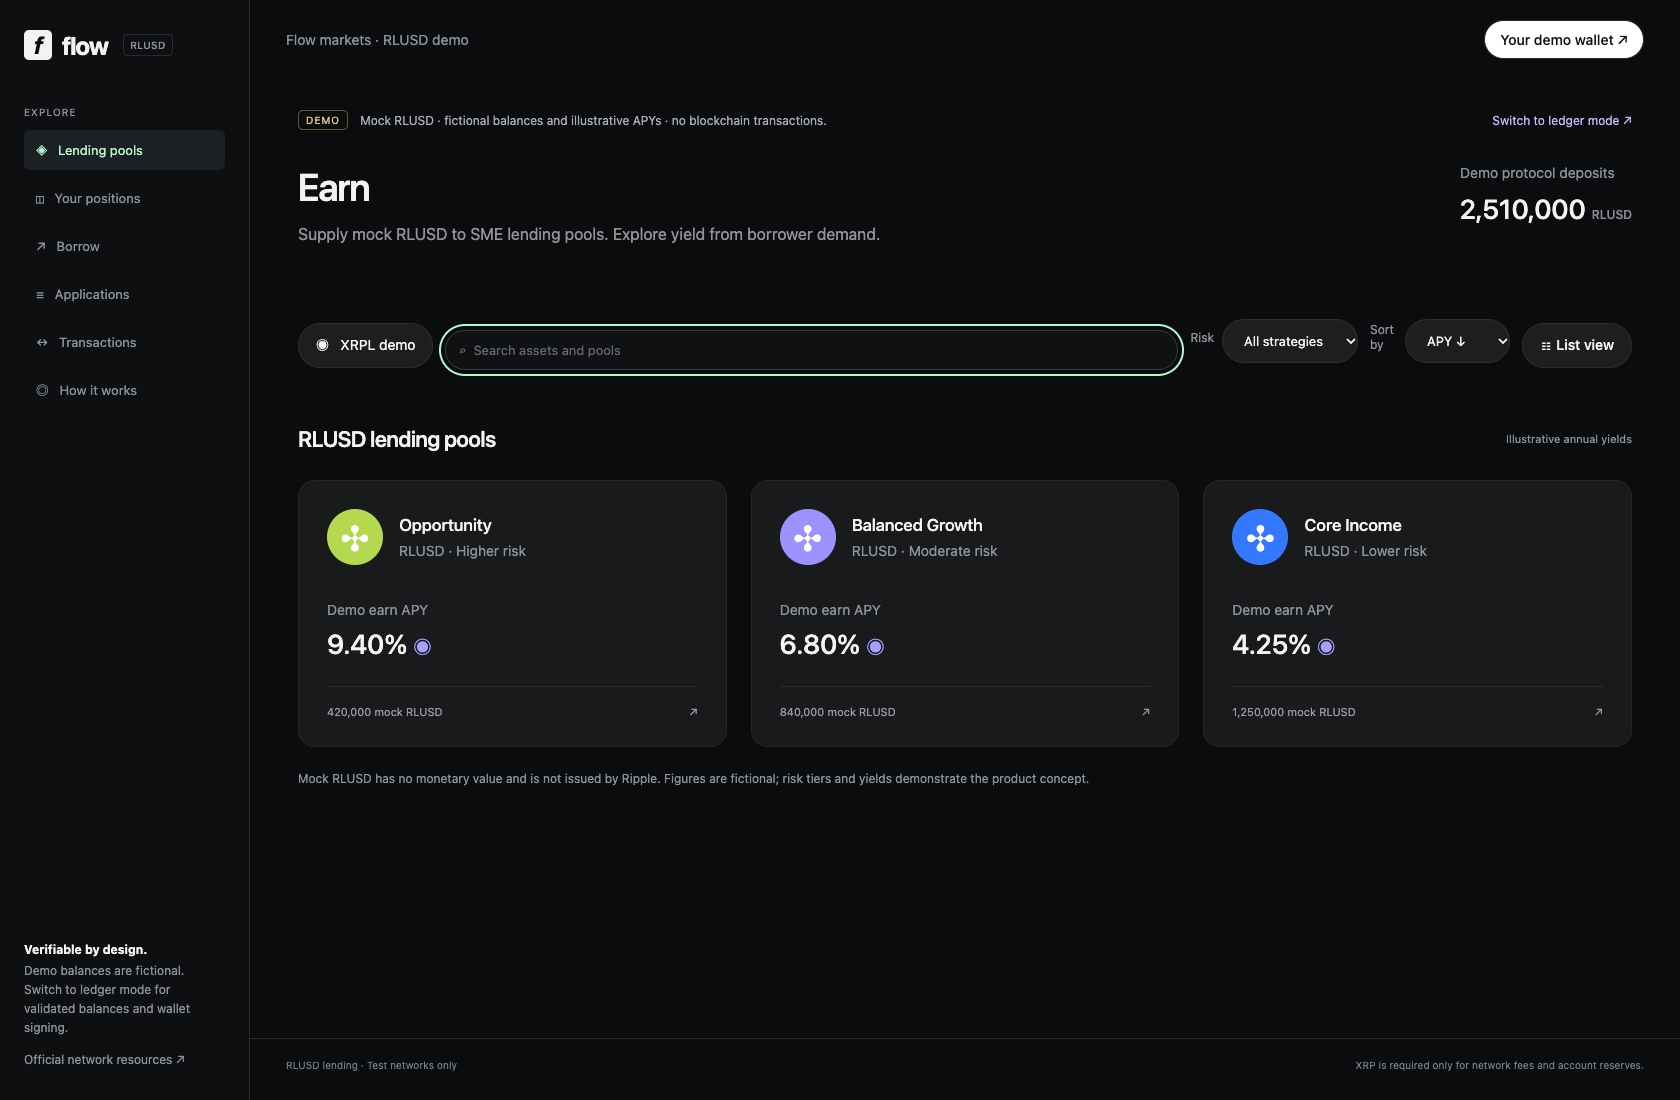
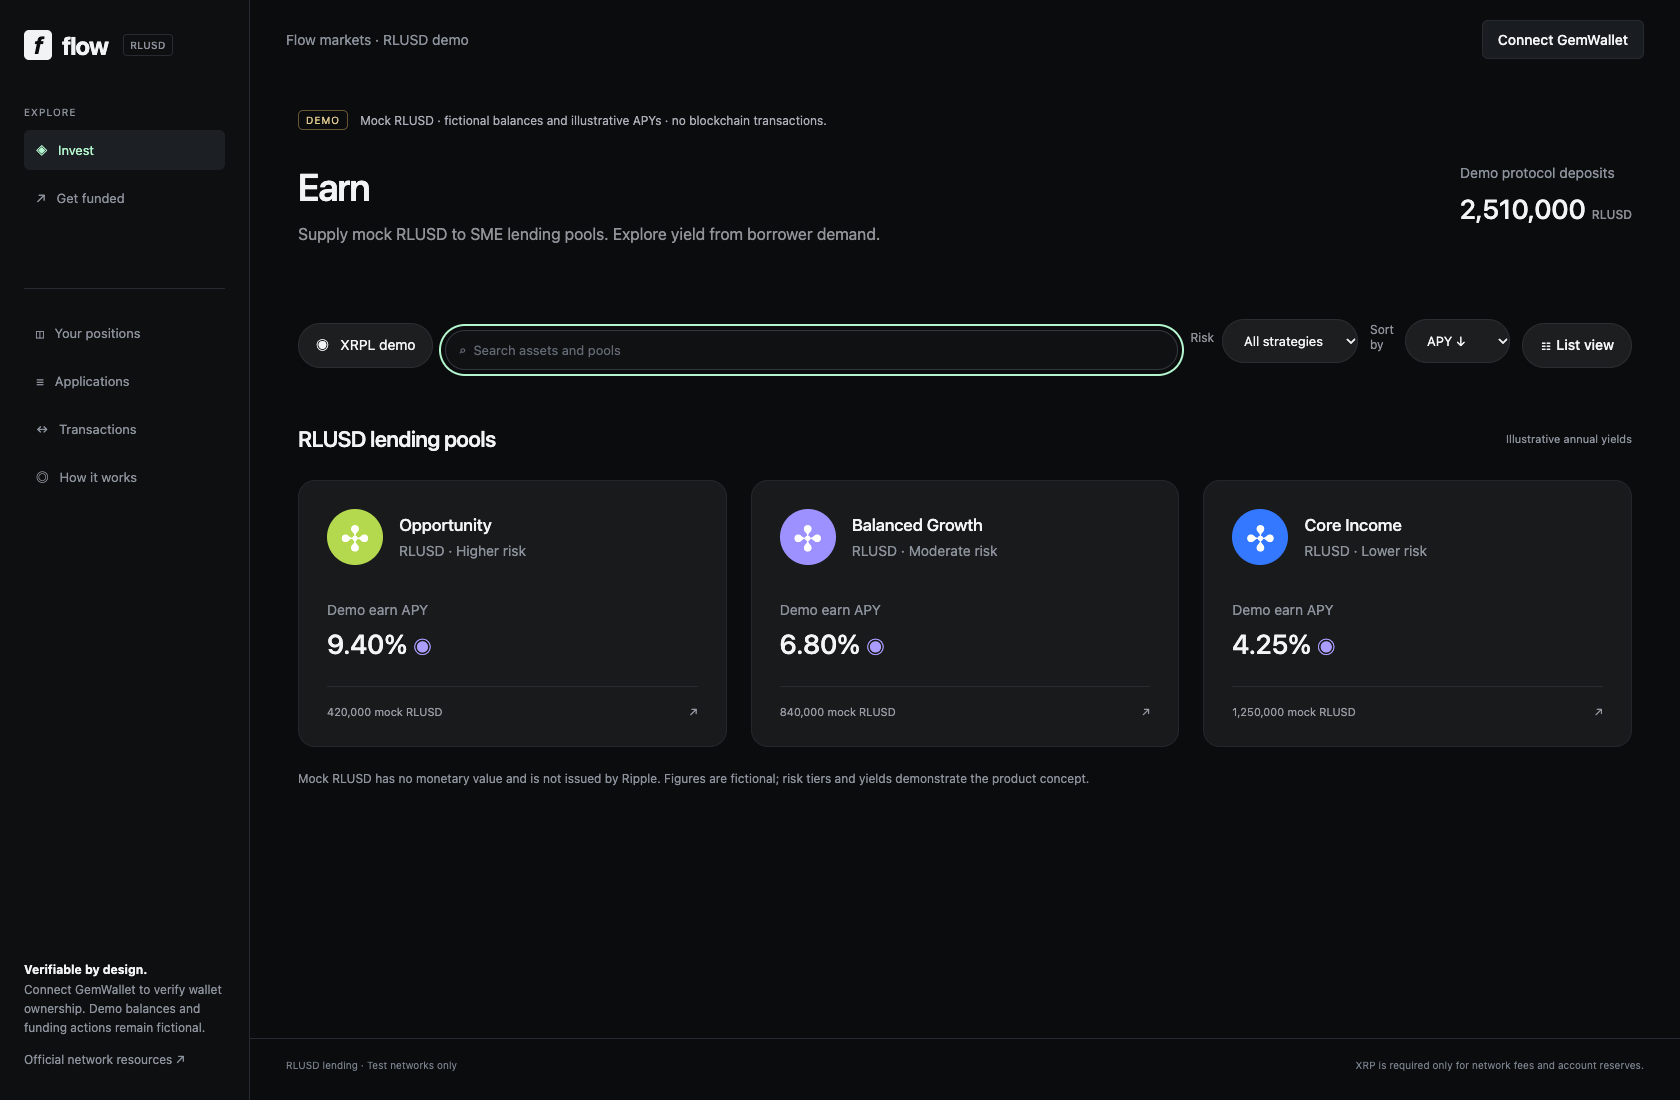
Unify demo app with GemWallet connection and Invest/Get funded navigation

diff --git a/services/api/lending_pool/static/demo.js b/services/api/lending_pool/static/demo.js
@@ -1,5 +1,5 @@
 // Local product demo only. Never calls a ledger, signs, or represents official RLUSD.
-const demoMode = new URLSearchParams(location.search).get('mode') !== 'ledger';
+const demoMode = true; // One app; legacy mode URLs also open this interface.
 const demoPools = [
   {id:'core',name:'Core Income',risk:'Lower risk',apy:4.25,total:1250000,used:650000,color:'#3478ff'},
   {id:'balanced',name:'Balanced Growth',risk:'Moderate risk',apy:6.8,total:840000,used:525000,color:'#9c91ff'},
@@ -13,14 +13,14 @@ function renderDemo(){
   const [page='pools',id]=location.hash.slice(1).split('/');
   document.querySelectorAll('nav a').forEach(a=>a.classList.toggle('active',a.dataset.page===(page==='pool'?'pools':page)));
   $('network-label').textContent='Flow markets · RLUSD demo';
-  $('network-status').innerHTML='<div class="demo-disclosure"><span>DEMO</span> Mock RLUSD · fictional balances and illustrative APYs · no blockchain transactions. <a href="?mode=ledger#pools">Switch to ledger mode ↗</a></div>';
-  $('account').innerHTML='<button id="demo-start" class="demo-start">Your demo wallet ↗</button>';
-  $('demo-start').onclick=()=>location.hash='portfolio';
+  $('network-status').innerHTML='<div class="demo-disclosure"><span>DEMO</span> Mock RLUSD · fictional balances and illustrative APYs · no blockchain transactions.</div>';
+  showAccount();
+  if($('connect-wallet'))$('connect-wallet').onclick=connectDemoWallet;
   if(page==='pool')return demoDetail(demoPools.find(p=>p.id===id)||demoPools[0]);
   if(page==='pools')return demoHome();
-  if(page==='workflow'){$('content').innerHTML=title('How the demo works','Every amount and action in this mode is simulated locally.')+'<div class="two-col"><article class="panel"><h2>Investor</h2><p>Start with 10,000 mock RLUSD → choose a pool → simulate a deposit → inspect your position → withdraw.</p><p>APYs are illustrative; interest does not accrue.</p></article><article class="panel"><h2>Borrower</h2><p>Simulate an advance → receive mock RLUSD → repay from the demo balance.</p><p>This shortcut has no invoice review, credit decision or signed loan agreement.</p></article></div><p class="note">The separate ledger mode retains GemWallet authentication and validated transaction checks. Demo balances never enter it.</p>';return;}
+  if(page==='workflow'){$('content').innerHTML=title('How the demo works','Every amount and action in this mode is simulated locally.')+'<div class="two-col"><article class="panel"><h2>Investor</h2><p>Start with 10,000 mock RLUSD → choose a pool → simulate a deposit → inspect your position → withdraw.</p><p>APYs are illustrative; interest does not accrue.</p></article><article class="panel"><h2>Borrower</h2><p>Simulate an advance → receive mock RLUSD → repay from the demo balance.</p><p>This shortcut has no invoice review, credit decision or signed loan agreement.</p></article></div><p class="note">Connect GemWallet to verify wallet ownership in this app. All investment and funding actions remain simulated; mock balances are separate from your wallet funds.</p>';return;}
   if(page==='activity'||page==='applications'){$('content').innerHTML=title(page==='activity'?'Demo activity':'Demo applications','Local simulation only. No transaction hashes, explorer proofs or real applications.')+demoState.history.map(h=>`<article class="panel">${escape(h)}</article>`).reverse().join('')+(!demoState.history.length?'<div class="empty">No demo activity yet.</div>':'');return;}
-  $('content').innerHTML=title(page==='borrow'?'Try a mock advance':'Your demo positions','Stored only in this browser. No real RLUSD or wallet connection.')+`<div class="stats">${metric('Demo wallet',demoNumber(demoState.cash/100),'mock RLUSD')}${metric('Deposited',demoNumber(Object.values(demoState.holdings).reduce((a,b)=>a+b,0)/100),'mock RLUSD')}${metric('Demo loan',demoNumber(demoState.loan/100),'mock RLUSD')}</div><div class="two-col"><article class="panel"><h2>Simulate borrowing</h2><p class="muted">Maximum 5,000 mock RLUSD outstanding. No interest or underwriting in this demo.</p>${demoForm('borrow')}</article><article class="panel"><h2>Repay the mock advance</h2>${demoForm('repay')}</article></div><button id="reset-demo">Reset demo balance and history</button><p id="demo-feedback" role="status"></p>`;
+  $('content').innerHTML=title(page==='borrow'?'Try a mock advance':'Your demo positions','Stored only in this browser. No real RLUSD. Connecting GemWallet verifies ownership only.')+`<div class="stats">${metric('Demo wallet',demoNumber(demoState.cash/100),'mock RLUSD')}${metric('Deposited',demoNumber(Object.values(demoState.holdings).reduce((a,b)=>a+b,0)/100),'mock RLUSD')}${metric('Demo loan',demoNumber(demoState.loan/100),'mock RLUSD')}</div><div class="two-col"><article class="panel"><h2>Simulate borrowing</h2><p class="muted">Maximum 5,000 mock RLUSD outstanding. No interest or underwriting in this demo.</p>${demoForm('borrow')}</article><article class="panel"><h2>Repay the mock advance</h2>${demoForm('repay')}</article></div><button id="reset-demo">Reset demo balance and history</button><p id="demo-feedback" role="status"></p>`;
   bindDemo();$('reset-demo').onclick=()=>{demoState=demoInitial();saveDemo();renderDemo();};
 }
 function demoHome(){
@@ -43,3 +43,11 @@ function bindDemo(){document.querySelectorAll('.demo-action').forEach(f=>f.onsub
   if(a==='deposit'){demoState.cash-=amount;demoState.holdings[p]+=amount;}if(a==='withdraw'){demoState.cash+=amount;demoState.holdings[p]-=amount;}if(a==='borrow'){demoState.cash+=amount;demoState.loan+=amount;}if(a==='repay'){demoState.cash-=amount;demoState.loan-=amount;}
   demoState.history.push(`Simulated ${a}: ${demoNumber(amount/100)} mock RLUSD${p?' · '+p:''}`);saveDemo();renderDemo();message('demo-feedback','Demo updated. No blockchain transaction occurred.','success');
 });}
+
+async function connectDemoWallet(){
+  try {
+    network=await api('/status');
+    await connectWallet();
+    if(walletInfo)message('global-status','GemWallet ownership verified. Demo balances remain fictional; no funds were moved.','success');
+  } catch(error){message('global-status',error.message,'error');}
+}

diff --git a/services/api/lending_pool/static/style.css b/services/api/lending_pool/static/style.css
@@ -10,3 +10,6 @@
 @media(max-width:550px){.positions{grid-template-columns:1fr}.detail-stats .stat{display:block;border-bottom:0;border-right:1px solid var(--border);padding:4px 14px}.detail-stats .stat:nth-child(even){border:0}.detail-stats .stat-label{margin-bottom:10px}.asset-icon{width:48px;height:48px;font-size:25px;border-width:6px}.asset-heading{gap:12px}.asset-heading h1{font-size:23px}.asset-heading h1 .muted{display:block;margin-top:5px}.sidebar nav a{font-size:12px}.app-shell .topbar{flex-wrap:wrap}#account{margin-left:0}.app-shell main{padding:20px 16px 40px}.detail-section dl>div{flex-direction:column;gap:5px}.detail-section dd{text-align:left}.chart-legend{gap:14px}.notice{overflow-wrap:anywhere}}
 /* Reference-inspired earn directory; simulation remains visibly labelled. */
 .demo-disclosure{display:flex;gap:12px;align-items:center;flex-wrap:wrap;color:#aaaeb6;font-size:12px;margin:0 0 34px}.demo-disclosure>span{border:1px solid #655634;color:#e1ca8d;border-radius:5px;padding:3px 7px;font-size:10px;letter-spacing:1px}.demo-disclosure a{margin-left:auto;color:#c0b8ff}.earn-heading{display:flex;justify-content:space-between;gap:30px;margin:12px 0 48px}.earn-heading h1{font-size:38px;margin:0 0 12px}.earn-heading p{color:#929398;font-size:16px}.earn-heading strong{display:block;font-size:27px;margin-top:12px;font-weight:500}.earn-heading small{font-size:12px;color:#8b8d94}.earn-toolbar{display:flex;align-items:center;gap:12px;flex-wrap:wrap;margin-bottom:46px}.earn-toolbar input{flex:1;min-width:160px;border-radius:30px;background:#101112}.earn-toolbar label{display:flex;align-items:center;gap:8px;color:#8f929a;font-size:12px}.earn-toolbar select,.earn-toolbar button,.filter-pill{border-radius:30px;background:#1d1e20;border:1px solid #2b2d30;padding:12px 17px;white-space:nowrap}.earn-grid{display:grid;grid-template-columns:repeat(3,minmax(0,1fr));gap:24px;margin-top:28px}.earn-card{background:#191a1c;border:1px solid #25262a;border-radius:17px;padding:28px;transition:border-color .2s,transform .2s;color:#f4f4f5}.earn-card:hover{border-color:#8f85d9;transform:translateY(-3px)}.earn-asset{display:flex;gap:16px;align-items:center}.earn-asset h3{margin:0 0 7px;font-size:17px;font-weight:500}.token-mark{display:inline-flex;align-items:center;justify-content:center;background:var(--token-color,#3478ff);color:white;font-size:36px;width:56px;height:56px;border-radius:50%;flex-shrink:0}.earn-yield{margin-top:36px}.earn-yield strong{display:block;font-size:27px;font-weight:500;margin-top:10px}.earn-yield strong span{font-size:20px;color:#a99eff}.earn-card-bottom{display:flex;justify-content:space-between;border-top:1px solid #2a2b2f;padding-top:18px;margin-top:25px;font-size:11px;color:#989ba4}.earn-grid.list-view{grid-template-columns:1fr}.list-view .earn-card{display:flex;justify-content:space-between;align-items:center;gap:20px}.list-view .earn-yield,.list-view .earn-card-bottom{margin:0}.demo-start{background:#fff;color:#111;border-radius:30px}.demo-action{margin-bottom:12px}.sr-only{position:absolute;width:1px;height:1px;overflow:hidden;clip:rect(0,0,0,0)}@media(max-width:1100px){.earn-grid{grid-template-columns:repeat(2,minmax(0,1fr))}}@media(max-width:700px){.earn-grid{grid-template-columns:1fr}.earn-heading{flex-direction:column;margin-bottom:28px}.earn-toolbar{gap:8px}.earn-toolbar input{flex-basis:100%}.earn-toolbar label{flex:1}.earn-toolbar select{max-width:170px}.list-view .earn-card{display:block}.list-view .earn-yield{margin-top:20px}.list-view .earn-card-bottom{margin-top:15px}.demo-disclosure a{margin-left:0}}
+
+.sidebar .nav-secondary{margin-top:70px;padding-top:24px;border-top:1px solid var(--border)}
+@media(max-width:850px){.sidebar .nav-secondary{margin-top:16px;padding-top:12px}.sidebar .nav-primary{gap:12px}}

diff --git a/services/api/lending_pool/templates/index.html b/services/api/lending_pool/templates/index.html
@@ -12,15 +12,17 @@
   <aside class="sidebar">
     <a class="brand" href="#pools"><span class="brand-mark">f</span>flow<span class="network">RLUSD</span></a>
     <p class="nav-label">EXPLORE</p>
-    <nav aria-label="Main navigation">
-      <a href="#pools" data-page="pools">◈ &nbsp; Lending pools</a>
+    <nav aria-label="Invest and funding" class="nav-primary">
+      <a href="#pools" data-page="pools">◈ &nbsp; Invest</a>
+      <a href="#borrow" data-page="borrow">↗ &nbsp; Get funded</a>
+    </nav>
+    <nav aria-label="Account and information" class="nav-secondary">
       <a href="#portfolio" data-page="portfolio">◫ &nbsp; Your positions</a>
-      <a href="#borrow" data-page="borrow">↗ &nbsp; Borrow</a>
       <a href="#applications" data-page="applications">≡ &nbsp; Applications</a>
       <a href="#activity" data-page="activity">↔ &nbsp; Transactions</a>
       <a href="#workflow" data-page="workflow">◎ &nbsp; How it works</a>
     </nav>
-    <div class="sidebar-note"><strong>Verifiable by design.</strong><p>Demo balances are fictional. Switch to ledger mode for validated balances and wallet signing.</p><a href="https://xrpl.org/resources/dev-tools/xrp-faucets" target="_blank" rel="noopener">Official network resources ↗</a></div>
+    <div class="sidebar-note"><strong>Verifiable by design.</strong><p>Connect GemWallet to verify wallet ownership. Demo balances and funding actions remain fictional.</p><a href="https://xrpl.org/resources/dev-tools/xrp-faucets" target="_blank" rel="noopener">Official network resources ↗</a></div>
   </aside>
   <div class="app-shell">
     <header class="topbar"><span id="network-label" class="muted">Checking ledger connection…</span><div id="account"><button id="connect-wallet">Connect GemWallet</button></div></header>

diff --git a/services/api/lending_pool/static/app.js b/services/api/lending_pool/static/app.js
@@ -165,7 +165,12 @@ function renderBorrow() {
 }
 window.addEventListener('hashchange',()=>{render();window.scrollTo(0,0);});
 (async()=>{
-  if(demoMode){renderDemo();return;}
+  if(demoMode){
+    try{walletInfo=await api('/wallet');}catch{/* No authenticated session. */}
+    renderDemo();
+    if(window.GemWalletApi)for(const event of ['walletChanged','networkChanged','logout'])window.GemWalletApi.on(event,()=>disconnectWallet());
+    return;
+  }
   showAccount();
   pools=(await api('/pools')).pools;
   await render();

diff --git a/README.md b/README.md
@@ -25,9 +25,9 @@ This is a hackathon prototype. The workflows below describe what we intend to ex
 
 ## RLUSD demo home
 
-The home page now opens in an explicitly labelled, browser-local RLUSD demo. Start with 10,000 mock RLUSD, browse/search/sort pools, and simulate deposits, withdrawals, borrowing and repayments. All capital and APYs are fictional; interest does not accrue. Demo actions make no API calls and never sign or submit blockchain transactions. Reset the demo from Your positions.
+The home page now opens in an explicitly labelled, browser-local RLUSD demo. Start with 10,000 mock RLUSD, browse/search/sort pools, and simulate deposits, withdrawals, borrowing and repayments. All capital and APYs are fictional; interest does not accrue. Demo financial actions make no API calls and never sign or submit blockchain transactions. Reset the demo from Your positions.
 
-Use **Switch to ledger mode** (or `?mode=ledger#pools`) for the separate GemWallet and validated-ledger integration. No demo balance is transferred into ledger mode. This mock asset is not official Ripple RLUSD and has no monetary value.
+There is one app. Connect GemWallet in the header to verify ownership with a signed challenge. All investment and funding actions remain simulated; mock balances never become wallet funds. This mock asset is not official Ripple RLUSD and has no monetary value.
 
 ## Current ledger implementation
 

diff --git a/docs/LENDING_INTEGRATION.md b/docs/LENDING_INTEGRATION.md
@@ -4,7 +4,7 @@
 
 At Gabriel’s request, the UI defaults to a labelled RLUSD mock-up. Fictional pool totals and illustrative APYs are shown in the reference-inspired Earn directory. Search, risk filtering, APY/name sorting and grid/list views work locally. A demo wallet starts at 10,000 mock RLUSD. Deposit/withdraw and borrow/repay actions use integer cents and browser localStorage, enforce available balances and a 5,000 mock RLUSD loan limit, and never call financial APIs. No interest accrues. Applications in this mode are not real underwriting requests.
 
-Open `?mode=ledger#pools` for the unchanged ledger mode. Mock data never changes ledger balances. This simulation is not a self-issued on-chain asset and requires no GemWallet signature.
+The separate ledger UI has been removed; old mode URLs open the same app. GemWallet authentication is available in the header. Mock data never changes ledger balances. This simulation is not a self-issued on-chain asset and requires no GemWallet signature.
 
 ## Current evidence — 24 October 2026
 
